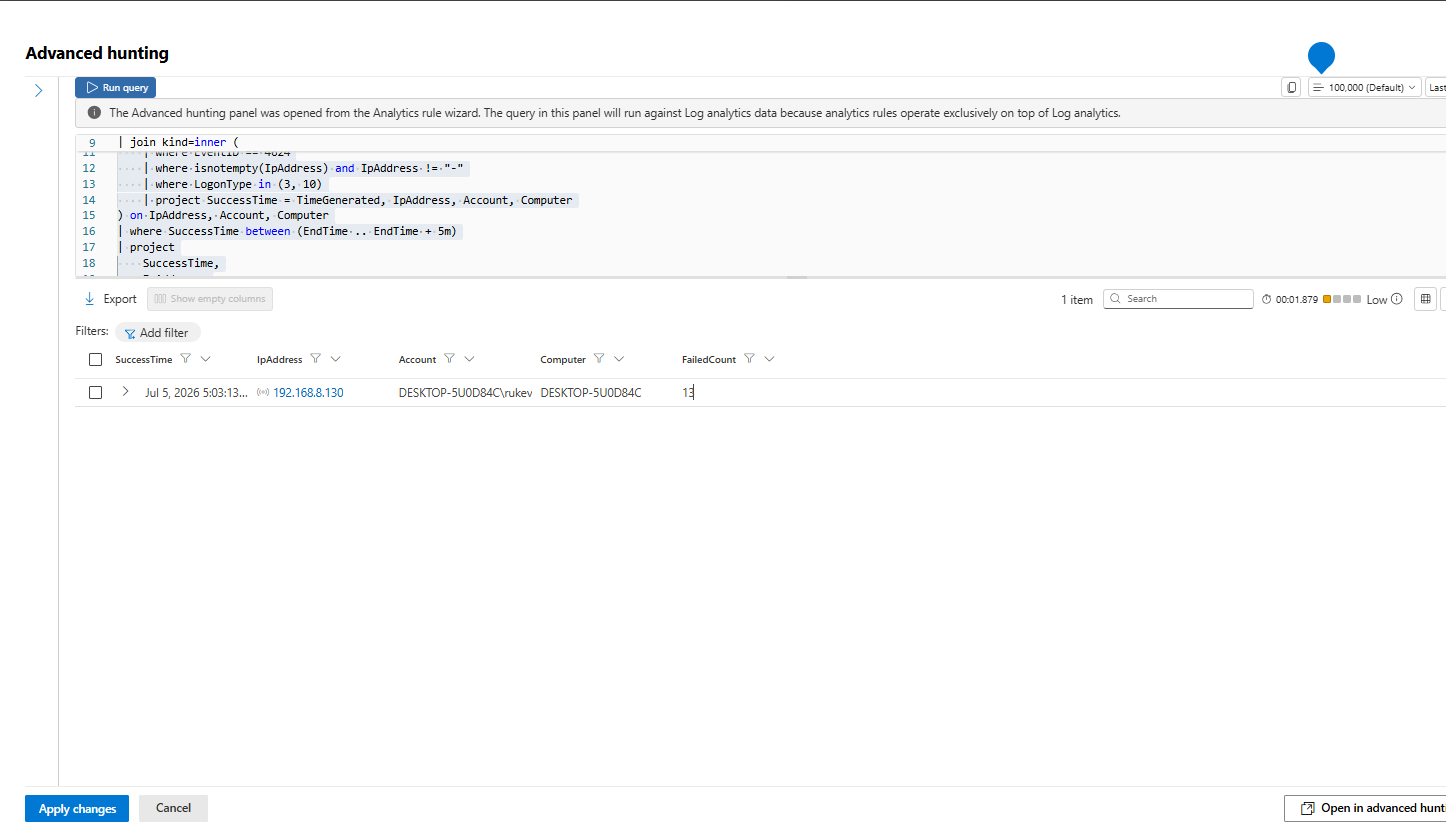
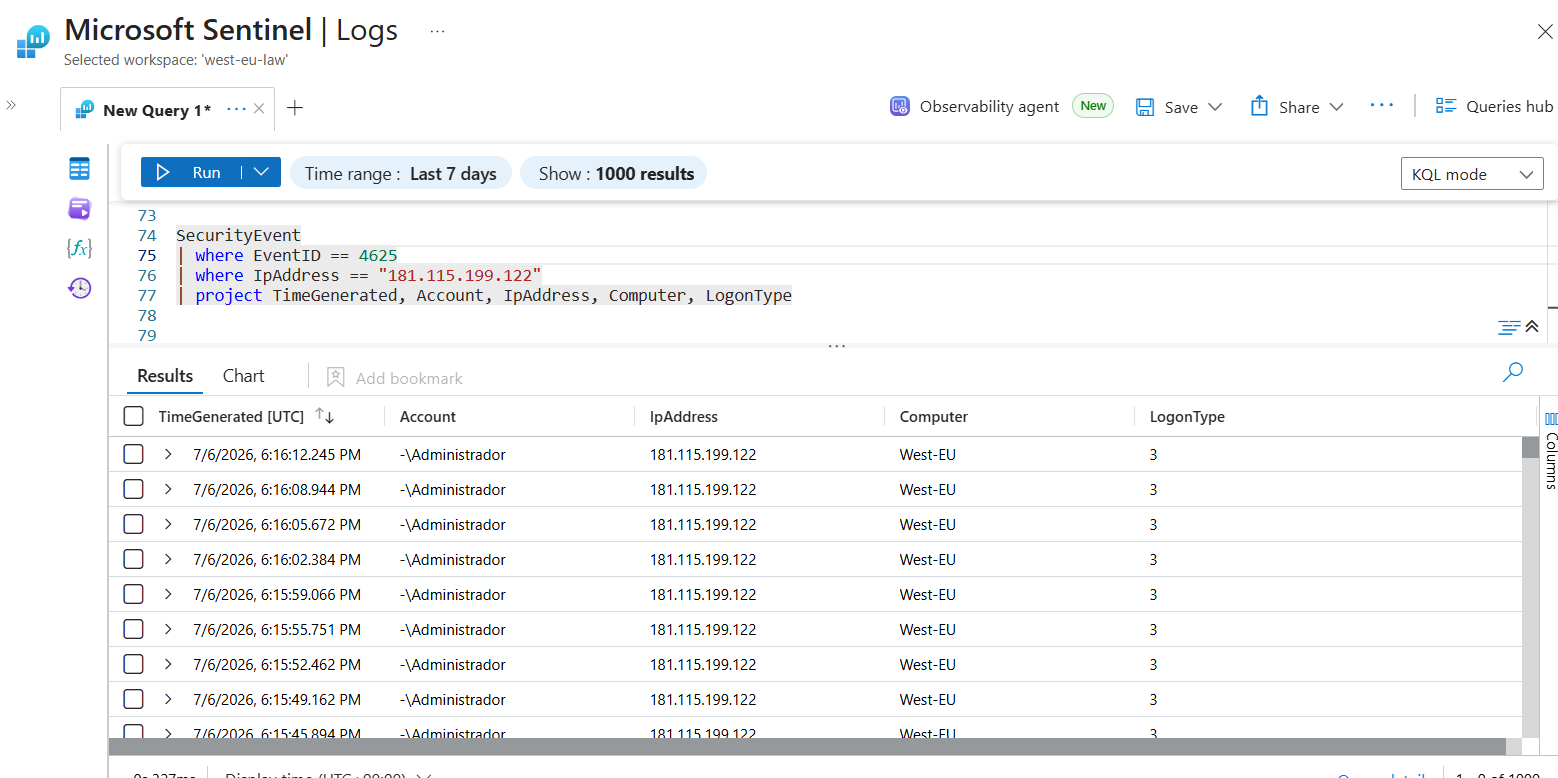
Brute Force Attack Investigation

diff --git a/Investigation-Reports/02-Brute-Force-Attack-Investigation.md b/Investigation-Reports/02-Brute-Force-Attack-Investigation.md
@@ -16,8 +16,11 @@ Microsoft Defender XDR and Microsoft Sentinel detected multiple authentication a
 
 Two separate brute-force investigations were analyzed:
 
-1. **Case 1 – Failed Brute Force Attempt (False Positive)**
-2. **Case 2 – Successful Authentication Following Brute Force Activity (True Positive)**
+1. **Case 1 – Severity: Medium**  
+   Failed Brute Force Attempt *(False Positive)*
+
+2. **Case 2 – Severity: High**  
+   Successful Authentication Following Brute Force Activity *(True Positive)*
 
 The investigation involved reviewing:
 
@@ -128,9 +131,9 @@ The investigation checked for:
 
 ## Incident Summary
 
-Microsoft Defender XDR detected repeated failed authentication attempts targeting the West-EU server.
+Microsoft Defender XDR detected a repeated failed authentication attempts targeting the West-EU server.
 
-![Incident](../Images/02-Brute-Force-Attack-Investigation.md/incident.png)
+![alt text](../Images/02-Brute-Force/incident.png)
 
 
 | Attribute | Details |
@@ -154,8 +157,8 @@ Findings:
 - Location: United Kingdom
 - Multiple security vendors flagged the IP as suspicious
 
-![Threat Intelligence](../Images/02-Brute-Force-Attack-Investigation.md/4FD.png)
 
+![alt text](../Images/02-Brute-Force/3.png)
 ---
 
 # Authentication Log Analysis
@@ -170,13 +173,12 @@ Observed:
 
 4625 - Failed Logon Attempt
 
-
-![Failed Logons](../Images/02-Brute-Force-Attack-Investigation.md/1FD.png)
+![alt text](../Images/02-Brute-Force/01.png)
 
 
 No successful authentication events were identified.
 
-![No Successful Login](../Images/02-Brute-Force-Attack-Investigation.md/2FD.png)
+![alt text](../Images/02-Brute-Force/02.png)
 
 ---
 
@@ -213,7 +215,6 @@ No unauthorized access occurred.
 
 Microsoft Defender XDR detected repeated authentication attempts followed by successful logins against the West-EU server.
 
-![Incident](../Images/02-Brute-Force-Attack-Investigation.md/1P.png)
 
 | Attribute | Details |
 |---|---|
@@ -238,6 +239,8 @@ Multiple external IP addresses were associated with brute-force activity.
 
 ---
 
+![alt text](../Images/02-Brute-Force/4.png)
+
 # Successful Authentication Evidence
 
 The investigation confirmed successful authentication events from:
@@ -249,12 +252,6 @@ The investigation confirmed successful authentication events from:
 
 34.77.166.77
 
-
-
-Example:
-
-![Successful Authentication](../Images/02-Brute-Force-Attack-Investigation.md/5P.png)
-
 ---
 
 # Threat Intelligence Findings
@@ -263,13 +260,19 @@ Example:
 
 Findings:
 
-- Registered to Empresa Nacional de Telecomunicaciones Sociedad Anonima (ENTEL)
-- Located in Bolivia
-- Historical malicious activity observed
+- Registered to Empresa Nacional de Telecomunicaciones Sociedad Anonima (ENTEL), Located in Bolivia, Historical malicious activity observed.
+
+![alt text](../Images/02-Brute-Force/03.png)
+
+- Multiple failed authentication attempts.
+
+![alt text](../Images/02-Brute-Force/4.png)
+
 - Successful authentication detected
+![alt text](../Images/02-Brute-Force/6.png)
 
-![Threat Intelligence](../Images/02-Brute-Force-Attack-Investigation.md/2P.png)
-
+As seen on the incident portal
+![alt text](../Images/02-Brute-Force/5.png)
 
 ---
 
@@ -286,11 +289,6 @@ SSH
 RDP
 Web Services
 
-
-
-
-Successful authentication detected.
-
 ---
 
 ## 84.192.175.75
@@ -299,6 +297,7 @@ Findings:
 
 - Multiple failed authentication attempts.
 - Followed by successful authentication.
+
 
 ---
 
@@ -314,13 +313,13 @@ Reviewed:
 
 No evidence was identified for:
 
-❌ Privilege escalation  
-❌ Malware execution  
-❌ PowerShell abuse  
-❌ Credential dumping  
-❌ Persistence creation  
-❌ Lateral movement  
-❌ Data exfiltration  
+- Privilege escalation  
+- Malware execution  
+- PowerShell abuse  
+- Credential dumping  
+- Persistence creation  
+- Lateral movement  
+- Data exfiltration  
 
 ---
 
@@ -373,7 +372,7 @@ Actions performed:
 - Performed threat intelligence enrichment.
 - Blocked suspicious IP addresses.
 
-![IP Blocking](../Images/02-Brute-Force-Attack-Investigation.md/In.png)
+![alt text](../Images/02-Brute-Force/In.png)
 
 
 ---
@@ -420,11 +419,11 @@ Although valid credentials were used, no additional malicious activity was ident
 
 ## Case 1
 
-✅ Closed – False Positive
+- Closed – False Positive
 
 ## Case 2
 
-✅ Closed – True Positive
+- Closed – True Positive
 
 ---
 